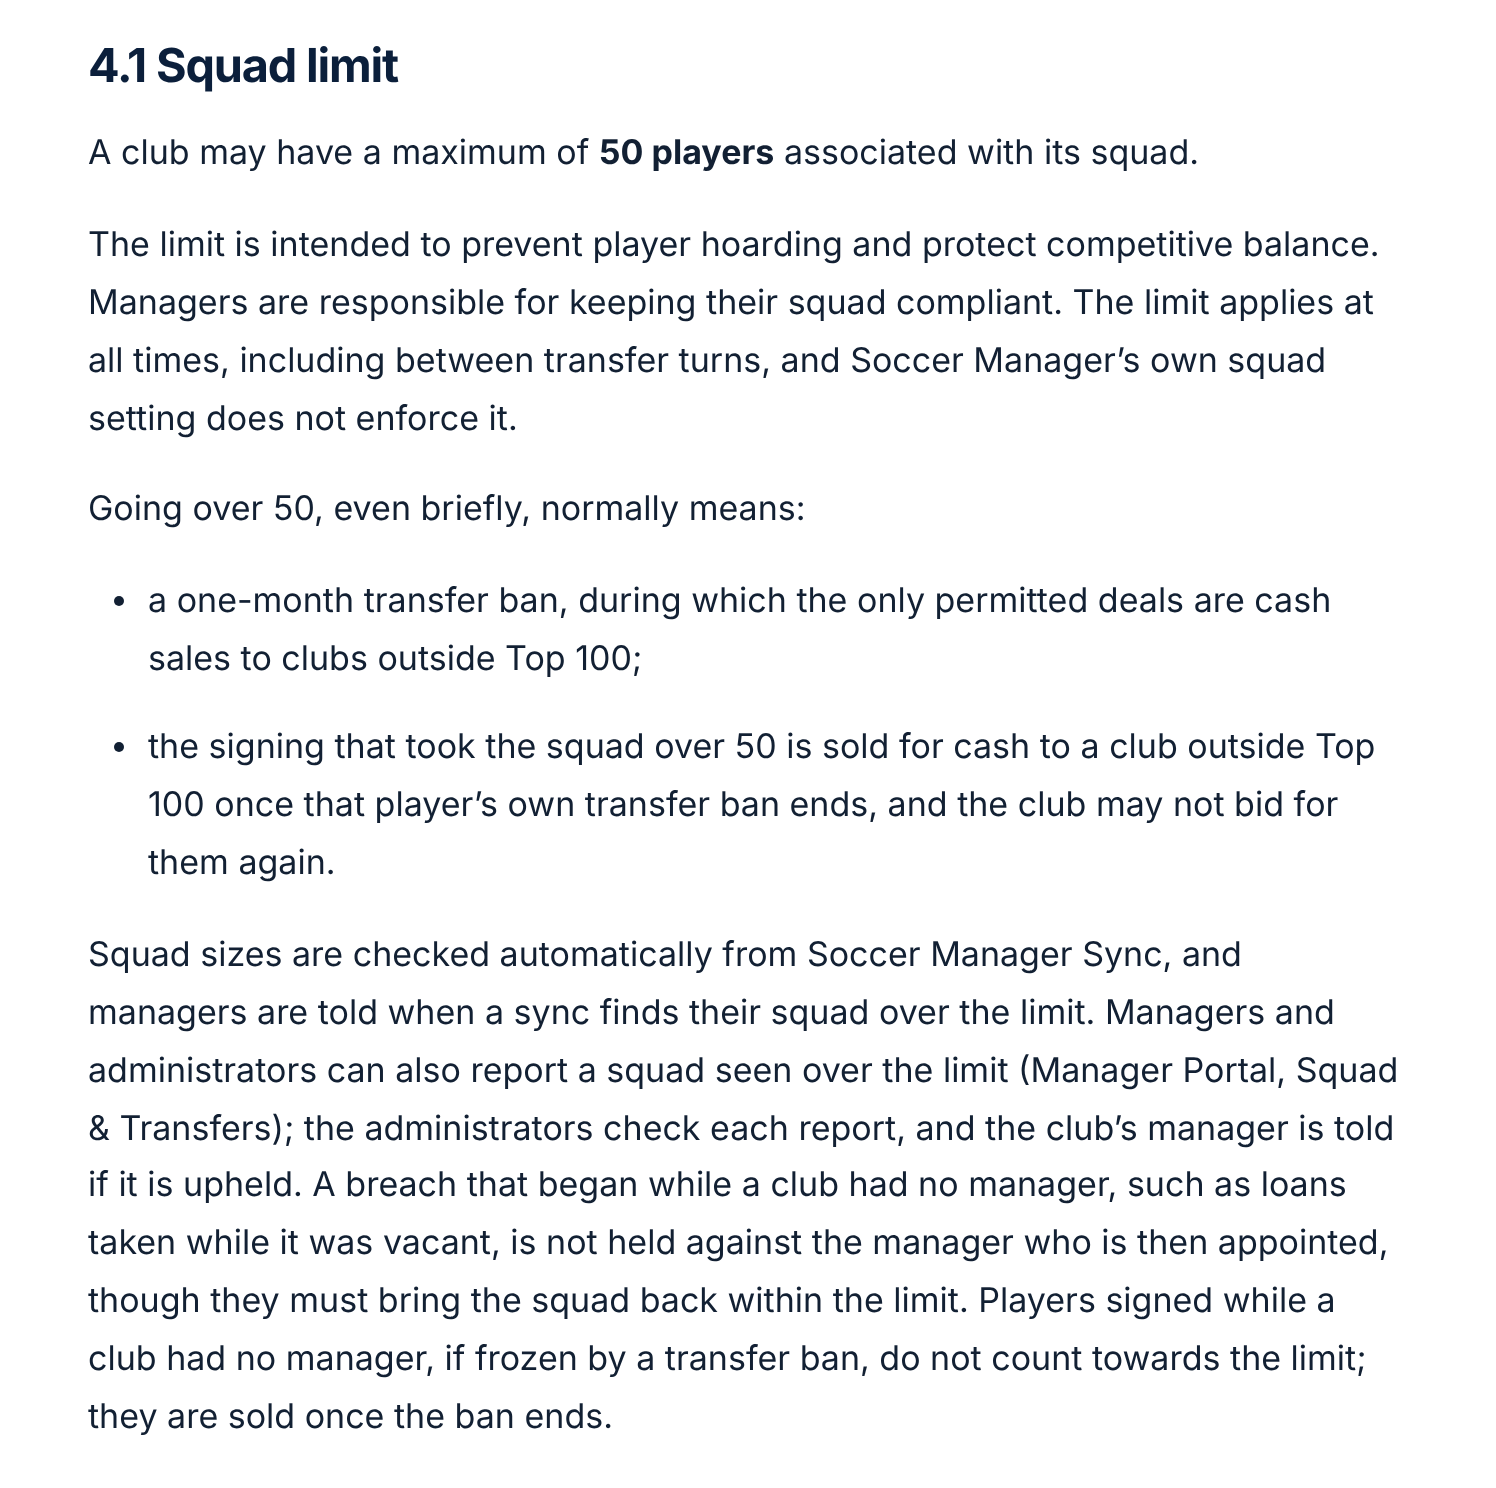
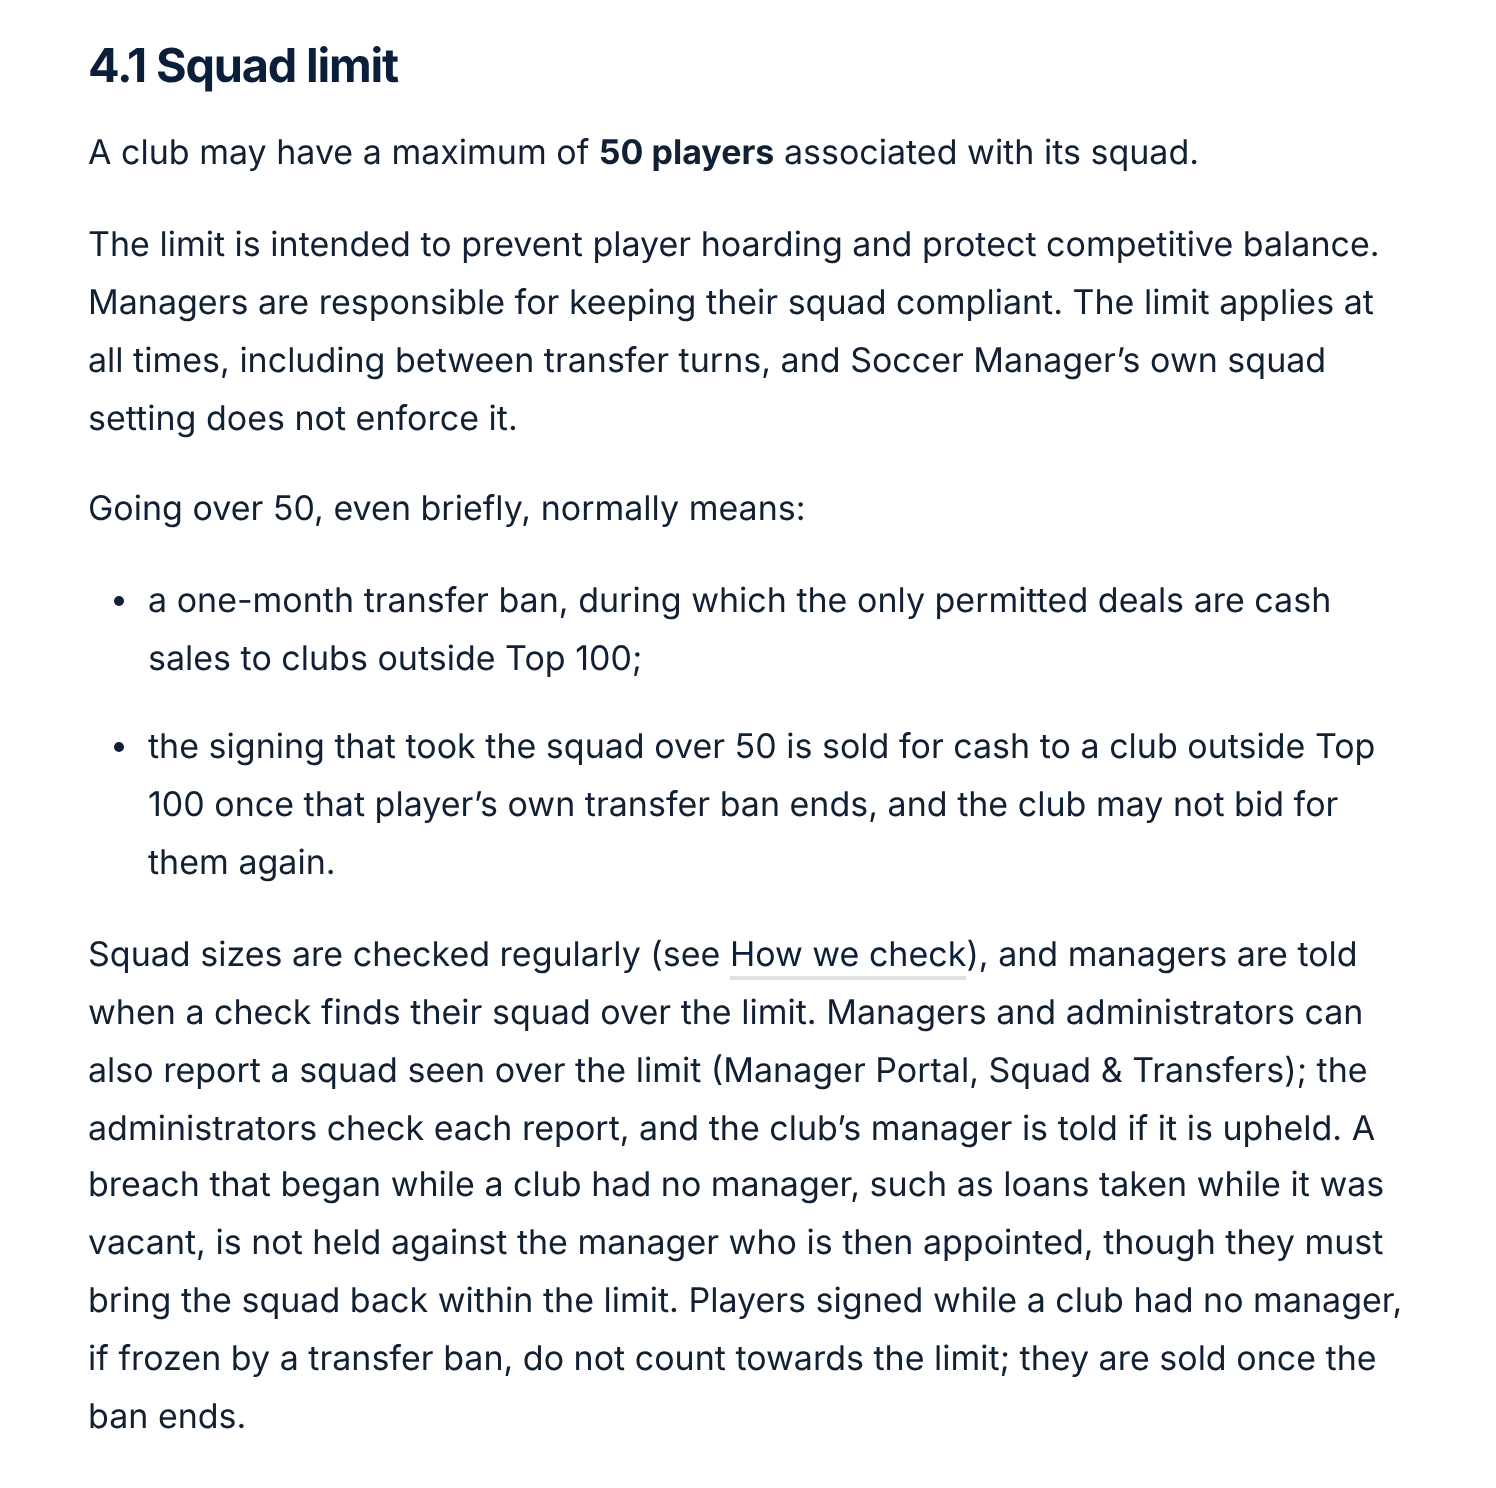
Fair-and-active draft: retaken rule 4.1 and squad review screenshots; drop the Gold and logins table
The rule 4.1 screenshot now shows How we check, the squad review says
'update', and the Gold and logins table (days of Gold left) is no longer shown.

Claude-Session: https://claude.ai/code/session_01VdxSby1fo79zG1TxWa4d3t

Changed region(s): [[0.0615, 0.6183, 0.9532, 0.9583]]

diff --git a/docs/drafts/s28-03-fair-and-active.md b/docs/drafts/s28-03-fair-and-active.md
@@ -54,8 +54,6 @@ Alerts go to the Top 100 admin team: **David Marsden, Regan Thompson (Hertha BSC
 
 ![Gold and login alerts: Gold ending in 7 days, and a manager not logged in for 7 days](https://smtop100.blog/uploads/2026/s28-alerts.png)
 
-![Gold and logins: each manager's Gold status, days of Gold left, last login and number of game worlds](https://smtop100.blog/uploads/2026/s28-gold-logins.png)
-
 *The admin team's alerts page. Clubs and managers here are examples.*
 
 Alerts to managers come through your [Manager Portal account](https://manager.smtop100.blog/), as reminders do, so make sure you've claimed yours. Compliance alerts can't be switched off.
